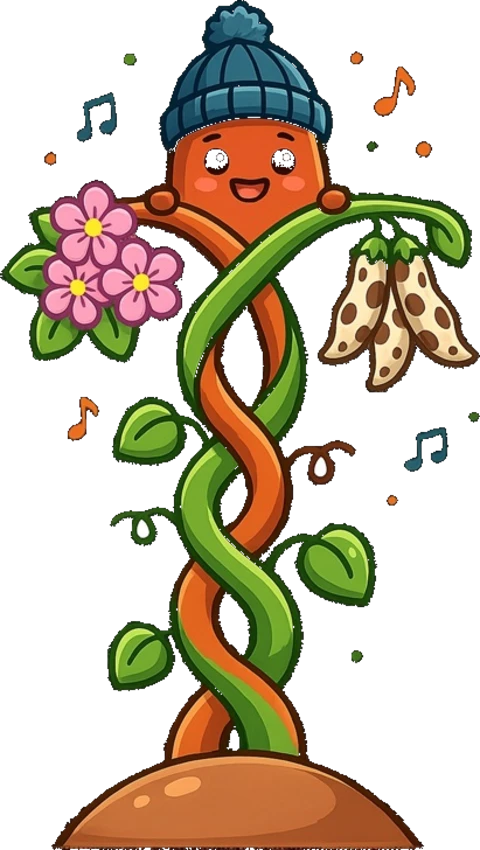
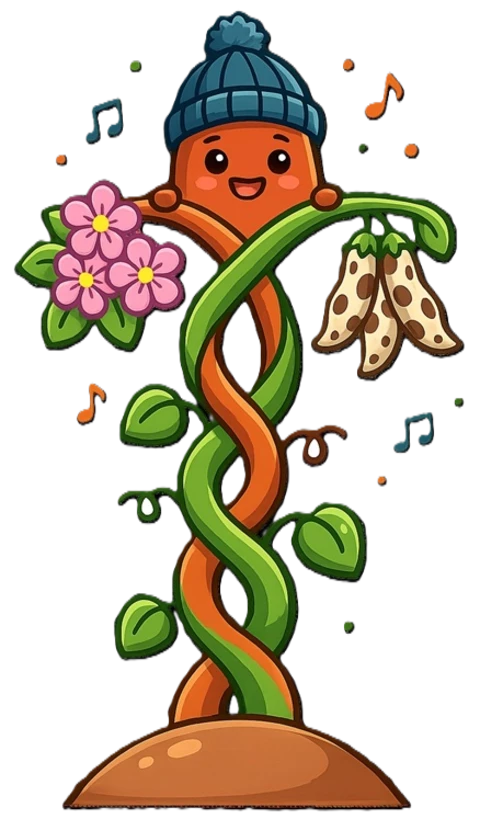
content(blog): transparent mascot asset + refreshed subtitles on 3 posts
Replaced beanies-beanstalk-mascot.webp with a clean, fully-transparent version (no halo) so it sits flush on the beanstalk hero gradient background.

Refreshed subtitles on the three existing posts to match greg's preferred wording: welcome-to-the-beanstalk, accidentally-built-greatest-family-app, buy-fruit.

diff --git a/content/blog/2026-04-03-accidentally-built-greatest-family-app.md b/content/blog/2026-04-03-accidentally-built-greatest-family-app.md
@@ -6,7 +6,7 @@ category: updates
 coverEmoji: 🚀
 coverImage: /blog/beanies-nook-screenshot.webp
 excerpt: '800 commits, 250 cups of coffee, and 89,000 gloriously vibe-coded lines later, I found myself gazing proudly at a nano banana generated image of my actual family in beanie form.'
-subtitle: '800 commits, 250 cups of coffee, one genuinely calmer family life'
+subtitle: 'or: why vibe coding by yourself at 3am can be hazardous to your health'
 featured: false
 author: greg
 ---

diff --git a/content/blog/2026-03-27-welcome-to-the-beanstalk.md b/content/blog/2026-03-27-welcome-to-the-beanstalk.md
@@ -6,7 +6,7 @@ category: updates
 coverEmoji: 🫘
 coverImage: /blog/greg-family-disney.webp
 excerpt: "The story of how a janky spreadsheet, my son's nickname, and three crazy boys naturally led to vibe coding a family planning app at 3am."
-subtitle: 'why the janky spreadsheet finally got tossed'
+subtitle: 'the story of this site written by an actual human'
 featured: false
 author: greg
 ---

diff --git a/content/blog/2026-04-17-buy-fruit.md b/content/blog/2026-04-17-buy-fruit.md
@@ -6,7 +6,7 @@ category: use-case
 coverEmoji: 🍎
 coverImage: /blog/beanies-buy-fruits-todo.webp
 excerpt: 'my mouth hung open as I stared incredulously upon a todo item from my wife, assigned to me, which said, simply: buy fruit.'
-subtitle: 'the todo that proved beanies actually works'
+subtitle: "it's the little things that make up life"
 featured: false
 author: greg
 draft: false
